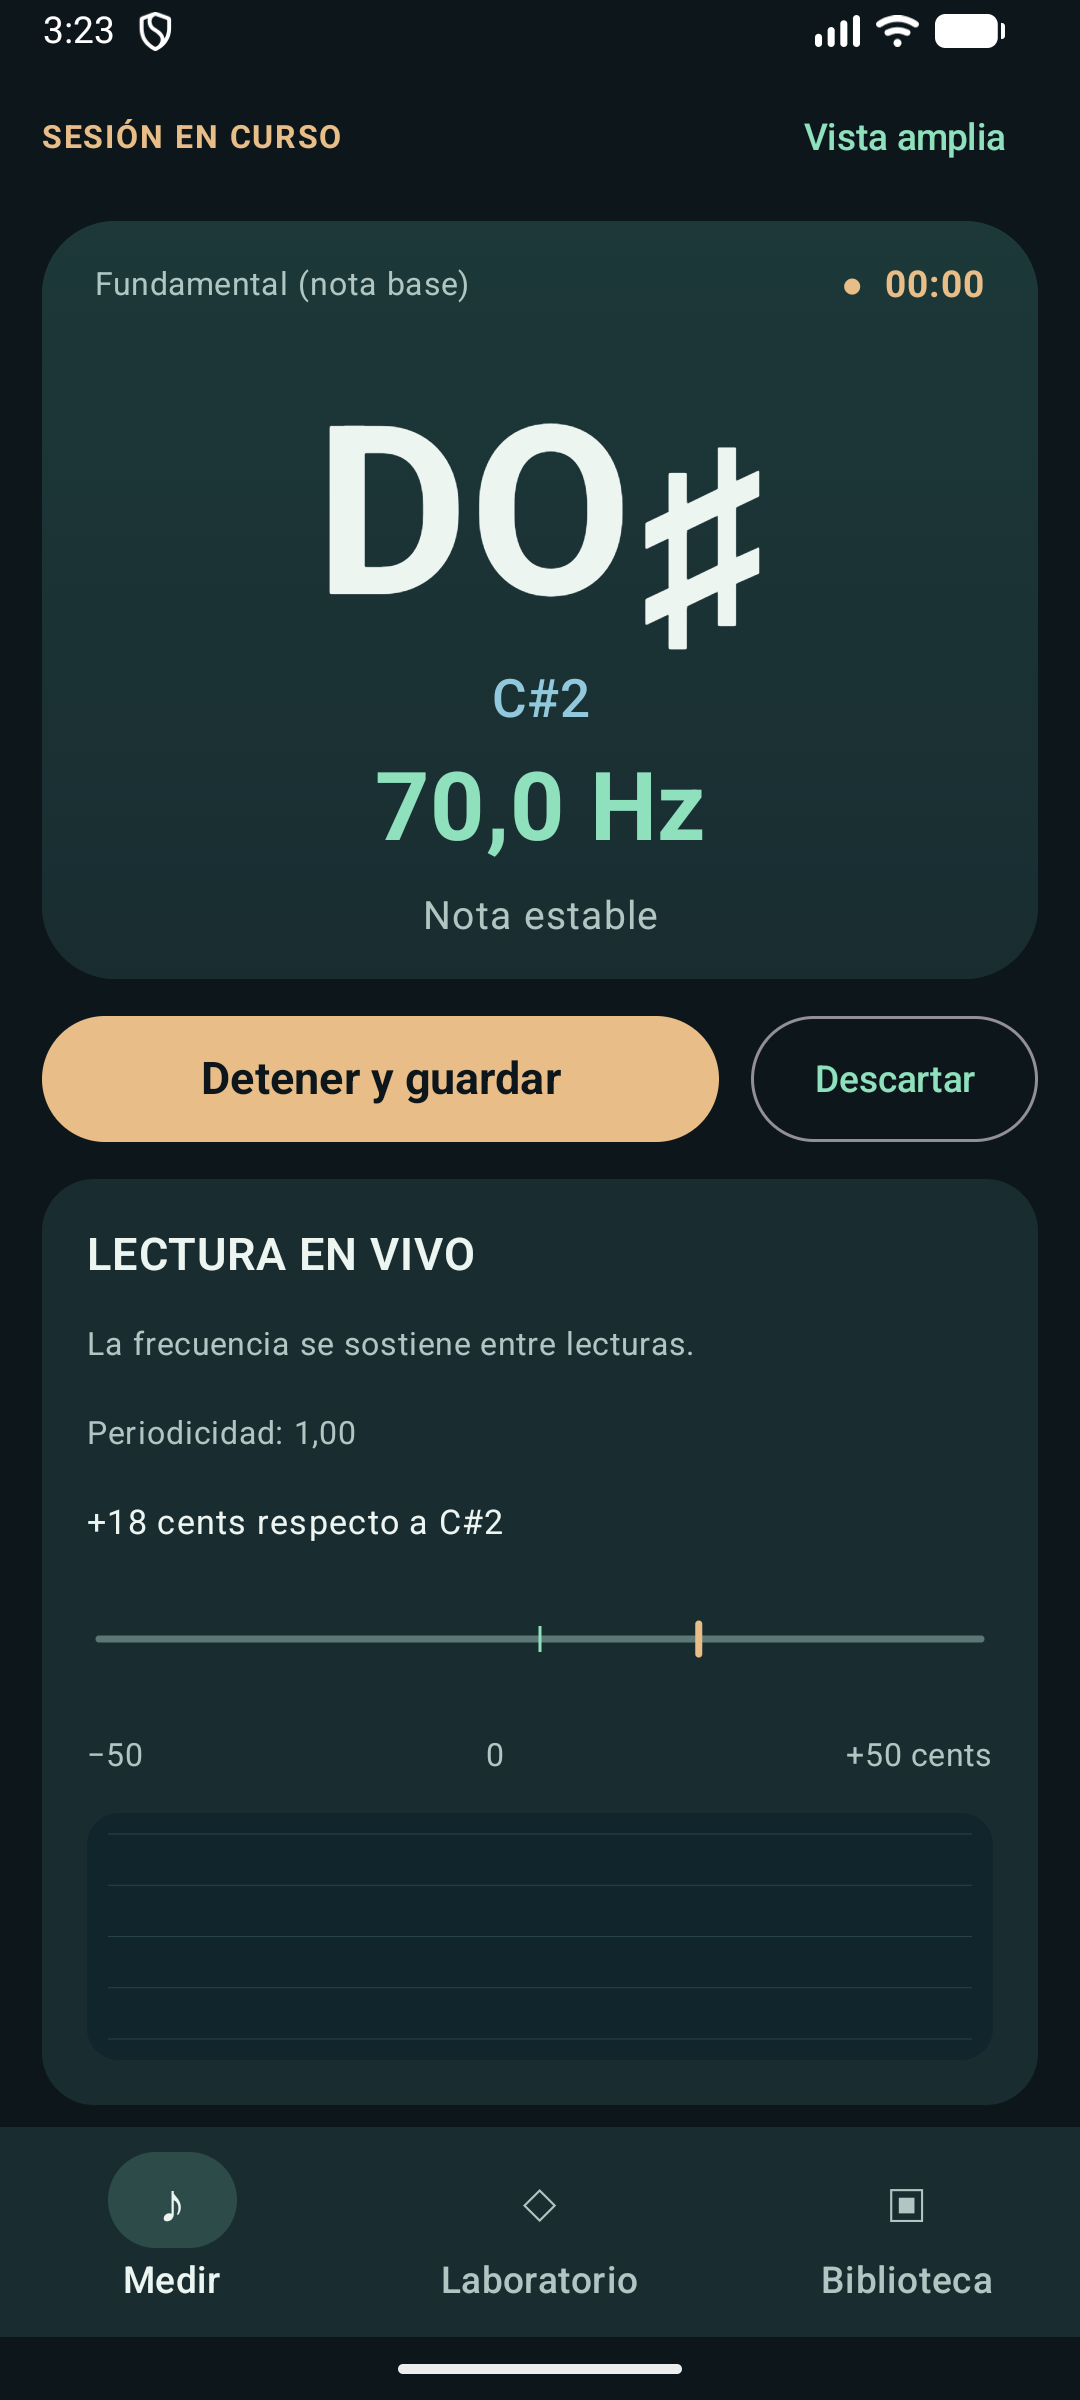
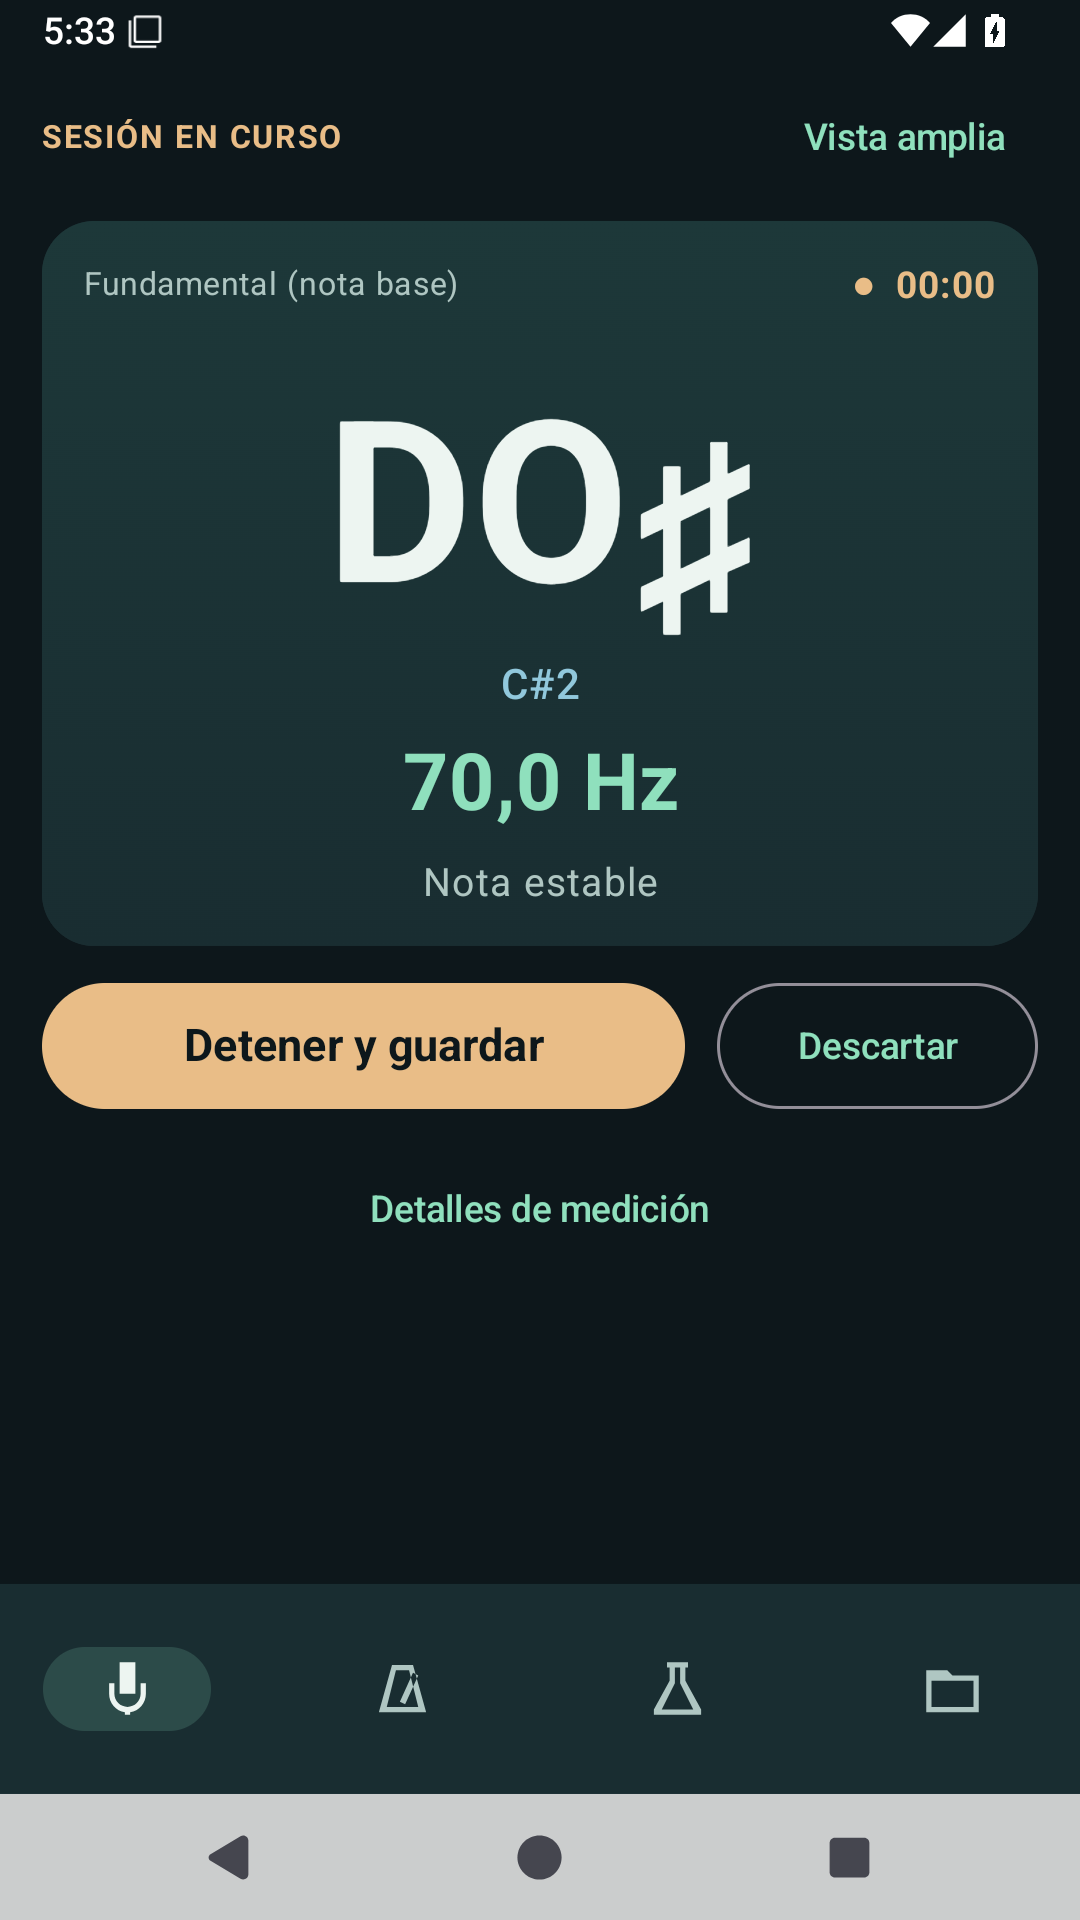
Document verified Measure and metronome UI and safe Samsung delivery

diff --git a/docs/VALIDATION.md b/docs/VALIDATION.md
@@ -2313,3 +2313,45 @@ fixture produces actual RED before fractional selection is restored. Final local
 JVM cases per variant and170 native cases plus five configurations pass; gate0.
 Current exact-source remote runs are recorded in PR1; prior f721 results do not
 substitute for changed-input validation. WAV/detector/layout semantics are preserved.
+
+### Measure/metronome UI delivery — 89cd201 (2026-11-10)
+
+- [Fast CI](https://github.com/hmeclazcke/DidgeTaller/actions/runs/42865043802)
+  passed: 550 app JVM cases per variant, 542 passed/8 protected skips each,
+  no failures; resources, differential reference comparison, APK/test compilation,
+  Lint, Detekt, CPD, source accountability and quality-tool failure tests passed.
+- [Focused API35 UI](https://github.com/hmeclazcke/DidgeTaller/actions/runs/42865033307)
+  passed: 29 executions across nine selections/configurations, no failures/skips.
+  This is not the complete instrumentation suite. It covers normal EN/ES,
+  narrow EN/ES150, landscape150, synthetic didgeridoo/flute/strong harmonics,
+  silence/uncertainty, recording confirmations, accessible tabs/Back, metronome
+  states/audio isolation and the unchanged strict playback scrubbing test.
+- Actual final PNGs were inspected for idle/active Measure, pending/accepted
+  readings, stopped/running/paused/expanded metronome and constrained layouts.
+  Primary information/actions fit together at normal size; constrained or expanded
+  content scrolls. A real localized header-width defect found during visual review
+  was fixed with intrinsic-width wrapping. Controls wrap at larger system font
+  sizes without shrinking accessibility scaling or touch targets.
+- No numeric threshold changed. Gate: 592 scored/137 unscored functions,
+  64 existing above-target JVM methods, zero CPD groups and source violations.
+  Compose remains technically unscored and explicitly reviewed. MeasureScreen
+  MCC 105 ->95, detail boundaries 7/8, metronome root 2. Lint: zero errors,
+  62 warnings/7 hints. No fresh mutation or Android-coverage claim is made for
+  this presentation-only revision.
+- Authorized Samsung install-r succeeded: compatible `ar.didgetaller` package
+  and certificate, version/code `3.3.0-beta1`/13. The owner confirmed the fresh
+  pre-existing 31 sessions/31 WAV baseline, 19 active/12 trashed, replacing 30/30.
+  UID, index, WAV filename/size/mtime membership and app-owned preferences match
+  before installation, after startup and after safe visual navigation. No private
+  WAV contents were read, copied, hashed or played. No microphone or physical
+  instrumentation was started. No crash was observed at startup.
+- Physical screenshots were inspected: idle Measure and stopped metronome fit
+  above navigation. A vertical swipe leaves collapsed metronome bounds unchanged;
+  expanded settings scroll to subdivisions, accent and volume. The app was left
+  in idle Measure. Recording and altered font/orientation states were verified
+  on the clean emulator rather than by recording on the phone.
+
+Ignored full evidence: `checkpoints/metronome-redesign/42865033307/`,
+`checkpoints/metronome-redesign/42865043802/` and
+`checkpoints/measure-metronome-ui/samsung/`. Published clean-emulator images
+and individual provenance are in `docs/screenshots/showcase/` and `showcase-es/`.

diff --git a/README.es.md b/README.es.md
@@ -43,7 +43,7 @@ Las cinco imágenes destacadas son capturas originales de la app real en un emul
 
 ## Qué podés hacer
 
-- **Practicar con metrónomo.** Abrí la pestaña **Metrónomo**: 30–240 BPM, iniciar/pausar/detener, compases de 2/4 a 4/4, negras/corcheas/tresillos/semicorcheas, acento inicial y volumen regulable. El tempo grande se edita al tocarlo; los pulsos centrales y los controles de reproducción se distribuyen en el espacio disponible, con ritmo y volumen desplegables. Los ajustes se conservan; el interruptor de sonido visible comienza apagado, avisa si el volumen multimedia está silenciado y se bloquea antes de abrir el micrófono. Navegar o pasar a segundo plano pausa el ritmo, sin reinicio automático. Los tiempos parten de una grilla monotónica absoluta; siguen sujetos a la latencia de Android y de la salida de audio. [Temporización y aislamiento](docs/METRONOME.md) (documentación técnica en inglés).
+- **Practicar con metrónomo.** Abrí la pestaña **Metrónomo**: 30–240 BPM, iniciar/pausar/detener, compases de 2/4 a 4/4, negras/corcheas/tresillos/semicorcheas, acento inicial y volumen regulable. El tempo grande se edita al tocarlo; los pulsos centrales y los controles de reproducción se distribuyen en el espacio disponible, con ritmo y volumen desplegables. Los ajustes se conservan; el interruptor de sonido visible comienza apagado, avisa si el volumen multimedia está silenciado y se bloquea antes de abrir el micrófono. Navegar o pasar a segundo plano pausa el ritmo, sin reinicio automático. Los tiempos parten de una grilla monotónica absoluta; siguen sujetos a la latencia de Android y de la salida de audio. [Temporización y aislamiento](docs/METRONOME.md) (documentación técnica en inglés). [Captura del metrónomo](docs/screenshots/showcase-es/metronome.png).
 
 - **Medir y grabar.** Elegí el perfil de didgeridoo o flauta nativa americana, seguí lecturas de frecuencia en vivo basadas en YIN con indicaciones de incertidumbre y guardá sesiones WAV PCM16 mono. El límite de grabación se configura entre 1 y 30 minutos. La lectura compacta reúne nota, frecuencia, estado de señal y acciones de grabación; las explicaciones y los diagnósticos siguen disponibles en Detalles de medición.
 - **Volver a tus sesiones.** Biblioteca muestra grabaciones guardadas con vistas previas de la traza musical. Podés reproducir, buscar una posición, cambiar nombres, exportar WAV, comparar sesiones o fragmentos y recuperar elementos de la Papelera.

diff --git a/README.md b/README.md
@@ -43,7 +43,7 @@ The five featured images are unaltered captures from the real app on an English-
 
 ## What you can do
 
-- **Practice with a metronome.** Open the dedicated **Metronome** tab: 30–240 BPM, start/pause/stop, 2/4–4/4, quarter/eighth/triplet/sixteenth subdivisions, first-beat accent and adjustable click volume. A large tap-to-edit tempo, centered beat indicators and balanced transport controls fill the available practice viewport; rhythm and volume expand on demand. Settings persist; the visible sound switch defaults off, reports muted media volume and is blocked before microphone capture. Navigation/backgrounding pauses the rhythm without automatic restart. Timing uses a monotonic absolute grid; Android dispatch/audio latency still applies. [Timing and isolation](docs/METRONOME.md).
+- **Practice with a metronome.** Open the dedicated **Metronome** tab: 30–240 BPM, start/pause/stop, 2/4–4/4, quarter/eighth/triplet/sixteenth subdivisions, first-beat accent and adjustable click volume. A large tap-to-edit tempo, centered beat indicators and balanced transport controls fill the available practice viewport; rhythm and volume expand on demand. Settings persist; the visible sound switch defaults off, reports muted media volume and is blocked before microphone capture. Navigation/backgrounding pauses the rhythm without automatic restart. Timing uses a monotonic absolute grid; Android dispatch/audio latency still applies. [Timing and isolation](docs/METRONOME.md). [Metronome screenshot](docs/screenshots/showcase/metronome.png).
 - **Measure and record.** Choose a didgeridoo or Native American flute profile, follow YIN-based live pitch readings with uncertainty feedback, and save mono PCM16 WAV sessions. Recording limits are configurable from 1 to 30 minutes. The compact reading keeps note, frequency, signal status and recording actions together; explanations and diagnostics remain available in Measurement details.
 - **Return to your sessions.** The Library shows saved recordings with musical-trace previews. Play, seek, rename, export WAV, compare sessions or excerpts, and recover items from Trash.
 - **Explore the sound.** Switch among Drone, Spectrogram, Wave, and Harmonics in a session. Analyze the whole WAV or a selected interval; use full-screen zoom, pan, cursor inspection, and playback-linked navigation. Tools contain scales, ranges, excerpts, and markers.

diff --git a/docs/screenshots/showcase-es/README.md b/docs/screenshots/showcase-es/README.md
@@ -1,5 +1,26 @@
 # Current README showcase - es-AR
 
+## 2026-11-10 UI update
+
+`live-measurement.png` and `metronome.png` are unaltered, visually inspected
+captures from implementation `89cd201`, version `3.3.0-beta1` / code `13`.
+[Passing API 35 Pixel 2 x86_64 run](https://github.com/hmeclazcke/DidgeTaller/actions/runs/42865033307),
+artifact `Focused-Metronome-Results`, normal font scale, Spanish locale.
+The live reading uses controlled 70 Hz PCM through the production callback,
+without a hardware microphone or WAV writer. Metronome is stopped after testing
+its settings. Neither image contains private audio or comes from the Samsung.
+The four saved-session images retain the historical provenance below.
+
+| Current file | Dimensions | SHA-256 |
+| --- | --- | --- |
[2 lines of base64/hex data omitted]
+
+## Historical 2026-11-06 capture record
+
+This record covers the unchanged session images and the previous live-reading
+revision, which remains available in Git history.
+
 Captured on 2026-11-06 from the real Android app on emulator-5554 (ranchu), based on production revision 0ed87d6. Production executable code and Android resources are unchanged; this task translates two comments and technical test messages and updates screenshot-only fixture preparation.
 
[1 lines of base64/hex data omitted]
@@ -35,6 +56,6 @@ directories for dated evidence.
 | --- | --- | --- |
[6 lines of base64/hex data omitted]

diff --git a/docs/screenshots/showcase/README.md b/docs/screenshots/showcase/README.md
@@ -1,5 +1,26 @@
 # Current README showcase - en
 
+## 2026-11-10 UI update
+
+`live-measurement.png` and `metronome.png` are unaltered, visually inspected
+captures from implementation `89cd201`, version `3.3.0-beta1` / code `13`.
+[Passing API 35 Pixel 2 x86_64 run](https://github.com/hmeclazcke/DidgeTaller/actions/runs/42865033307),
+artifact `Focused-Metronome-Results`, normal font scale, English locale.
+The live reading uses controlled 70 Hz PCM through the production callback,
+without a hardware microphone or WAV writer. Metronome is stopped after testing
+its settings. Neither image contains private audio or comes from the Samsung.
+The four saved-session images retain the historical provenance below.
+
+| Current file | Dimensions | SHA-256 |
+| --- | --- | --- |
[2 lines of base64/hex data omitted]
+
+## Historical 2026-11-06 capture record
+
+This record covers the unchanged session images and the previous live-reading
+revision, which remains available in Git history.
+
 Captured on 2026-11-06 from the real Android app on emulator-5554 (ranchu), based on production revision 0ed87d6. Production executable code and Android resources are unchanged; this task translates two comments and technical test messages and updates screenshot-only fixture preparation.
 
[1 lines of base64/hex data omitted]
@@ -33,7 +54,7 @@ a completed recording.
 | --- | --- | --- |
[6 lines of base64/hex data omitted]
 

diff --git a/docs/WORK_LOG.md b/docs/WORK_LOG.md
@@ -1171,3 +1171,25 @@ recording actions likewise wrap by real available width and system font scale.
 Keep normal simultaneous controls, geometry stability and min48dp assertions.
 Owner confirmed the pre-existing 31-session/31-WAV Samsung baseline; signatures
 and package/code13 match. Install remains gated on passing final native verification.
+
+### Verified UI delivery at 89cd201
+
+Fast CI42865043802 and focused API35 CI42865033307 pass: 29/29 native
+executions, 542 passed/8 protected skips per JVM variant, no failures. Final
+screenshots were visually inspected and the EN/ES live showcase refreshed;
+metronome captures link from both README files. No full instrumentation or fresh
+mutation claim is made for this focused presentation revision. VALIDATION.md
+records exact scope and the acknowledged Compose mapping limitation.
+
+The authorized Samsung install-r succeeded with the original compatible
+package/signature and code13. Owner confirmed 31 sessions/31 WAV, 19 active/12
+trashed. Protected metadata and app-owned preferences match after installation,
+startup and visual checks. No private audio was read or played. No recording or
+instrumentation ran on the phone. Inspected idle Measure, stopped metronome,
+four icon-only destinations and scrolling advanced controls; collapsed metronome
+positions remain unchanged after a vertical swipe. Returned to idle Measure.
+
+No pending implementation or installation step remains for this UI task. PR2
+stays draft, main remains unchanged. Documentation/screenshot-only follow-ups
+reuse unchanged 89cd201 executable evidence; do not rebuild or reinstall for
+those files. Physical imagery/metadata stays ignored and must never be published.
